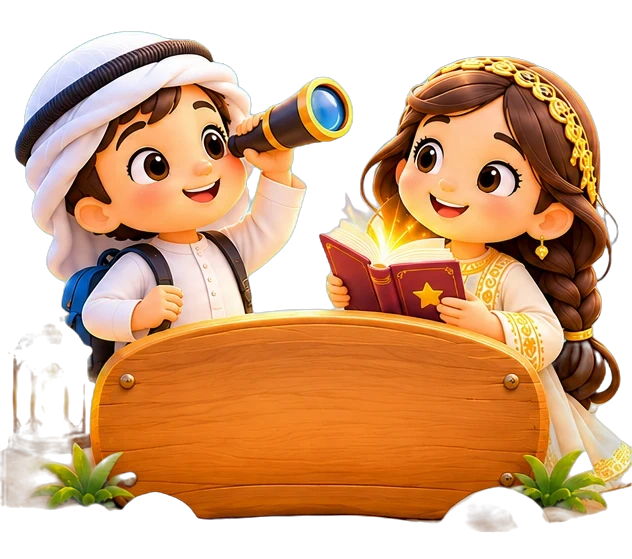
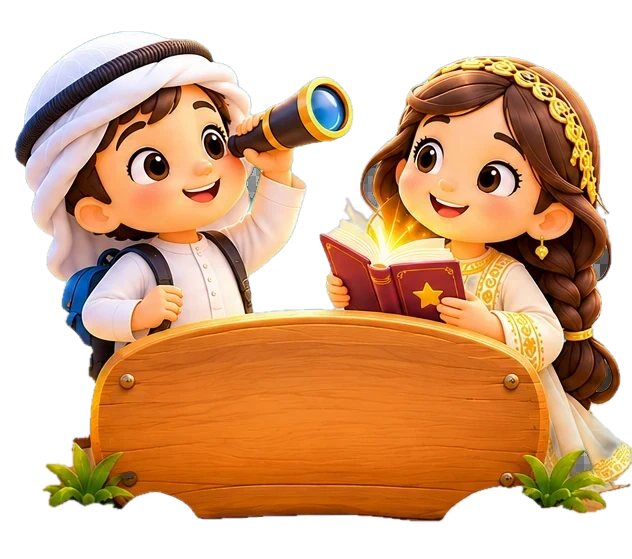
Home in the painted style: Amna's background and six buildings, kids with sign cleaned, backpack for homework, no signs. Not deployed.
Claude-Session: https://claude.ai/code/session_016UQV7K3rGGxSvkGTYBHu2J

diff --git a/world.html b/world.html
@@ -230,6 +230,20 @@ svg.road{position:absolute;inset:0;width:100%;height:100%}
 #allgrid .glesson{animation:popup2 .45s var(--bounce) backwards}
 #allgrid .glesson span{width:17cqh;height:17cqh}#allgrid .glesson b{font-size:3.2cqh}
 @keyframes popup2{from{transform:scale(.4);opacity:0}}
+
+/* home in the painted style: your background, buildings on the sand, no signs */
+#map{background:#f6d9a4}#map::before,#map::after{display:none}
+#map .bg{z-index:0}
+.bld.nb>img{width:100%;height:100%;object-fit:contain;object-position:bottom;filter:drop-shadow(0 1.4cqh 1.2cqh rgba(130,80,20,.28))}
+.bld.nb{animation:idle 4s ease-in-out infinite;animation-delay:var(--d)}
+@keyframes idle{50%{transform:translateY(-.8cqh)}}
+.bld.nb.hit{animation:bhit .6s var(--bounce)}
+.bld.nb i.tk{position:absolute;top:8%;right:10%;width:6cqh;height:6cqh;border-radius:50%;background:#1f9d5c;border:.5cqh solid #fff;display:flex;align-items:center;justify-content:center}
+.bld.nb i.tk svg{width:3.4cqh;height:3.4cqh}
+#heroK{bottom:2cqh;height:44cqh}
+#whw{left:calc(50% + 23cqh);bottom:2cqh;width:24cqh;animation:hwb 2.6s ease-in-out infinite}
+#whw img{width:24cqh;height:auto;margin:0;filter:drop-shadow(0 1cqh 1cqh rgba(130,80,20,.28))}
+#whw #hwn{top:0;inset-inline-end:1cqh}
 </style>
 </head>
 <body>
@@ -368,17 +382,15 @@ async function drawBoard(){const o=$("#board"),L=(await boardData()).sort((a,b)=
   o.innerHTML=`<div class="card" id="bcard"><div id="bhead" class="wood">نجوم العائلة</div><button class="pill ic" id="bx" aria-label="إغلاق"><svg viewBox="0 0 24 24" fill="none" stroke="#1d2547" stroke-width="3" stroke-linecap="round"><path d="M6 6l12 12M18 6L6 18"/></svg></button><div id="podium">${pod}</div>${rest?`<div id="brest">${rest}</div>`:""}</div>`;
   $("#bx").onclick=()=>{o.classList.remove("on");clearInterval(boardT)};o.onclick=e=>{if(e.target===o){o.classList.remove("on");clearInterval(boardT)}}}
 /* home */
-const ORDER=["ar","en","deen","math","uae","name"],SPOT=[[88,13,25],[76.5,45,22],[58.5,58,18],[41.5,58,18],[23.5,45,22],[12,13,25]];
+const ORDER=["ar","en","deen","math","uae","name"],SPOT=[[86,6,27],[77,38,24],[60,52,21],[40,52,21],[23,38,24],[14,6,27]];
 const HOME=["calc(50% - 42.5cqh)","1cqh"];let flying=false;
 const perch=i=>[`calc(${SPOT[i][0]}% - ${(SPOT[i][0]>50?1:-1)*SPOT[i][2]*.72+10.5}cqh)`,SPOT[i][1]-1+"cqh"];
+const BLD={ar:"b_fort",en:"b_library",deen:"b_mosque",math:"b_souq",uae:"b_dhow",name:"b_tent"};
 function drawMap(){const M=$("#map"),me=NAJMA.me;
-  let h=`<svg class="path" viewBox="0 0 100 100" preserveAspectRatio="none" aria-hidden="true"><path d="M12,90 A38,46 0 0 1 88,90" fill="none" vector-effect="non-scaling-stroke" stroke="#e2ad66" style="stroke-width:11cqh" stroke-linecap="round"/><path d="M12,90 A38,46 0 0 1 88,90" fill="none" vector-effect="non-scaling-stroke" stroke="#fbe3b6" style="stroke-width:8.6cqh" stroke-linecap="round"/></svg>`;
-  [[18,5,22,0],[36,14,15,-3],[60,4,20,-5],[78,15,14,-2]].forEach(([x,t,w,dl])=>h+=`<img class="cloud" src="${V}s_cloud.webp" alt="" style="--x:${x}%;--t:${t}%;--s:${w}cqh;--d:${dl}s">`);
-  const dec=(n,x,b,w,sw,dl=0)=>h+=`<img class="decor${sw?" sway":""}" src="${V}${n}.webp" alt="" style="--x:${x}%;--b:${b}cqh;--s:${w}cqh;--d:${dl}s">`;
-  dec("s_palm",50,56,15,1);dec("s_palm",3,50,17,1,-2);dec("s_ghaf",97,50,17,1,-1);dec("s_palm",33,52,12,1,-3);dec("s_ghaf",67,52,12,1,-2);dec("s_flowers",31,3,8);dec("s_rocks",70,30,9);
-  h+=`<div id="heroK"><b>هيا نتعلم!</b></div><button id="whw"><img src="${V}l_task.webp" alt=""><span class="wood">واجب اليوم</span>${hwN?`<i id="hwn">${AD(hwN)}</i>`:""}</button>`;
-  ORDER.forEach((k,i)=>{const [x,b,ht]=SPOT[i],s=PLACE[k],n=Math.round(frac(k)*4),on=vis(k).length;if(!on)return;
-    h+=`<button class="bld" data-k="${k}" style="left:${x}%;bottom:${b}cqh;height:${ht}cqh;width:${ht*1.45}cqh;margin-left:${-ht*.725}cqh" aria-label="${s.name}">${pic(s.p)}</button><button class="post wood" data-k="${k}" style="left:${x}%;bottom:${b-7.6}cqh">${s.name}<i>${[0,1,2,3].map(j=>`<img src="${V}r_star.webp" alt=""${j<n?"":' class="off"'}>`).join("")}</i></button>`});
+  let h=`<img class="bg" src="${V}home_bg.webp" alt="" style="object-position:center top">`;
+  h+=`<div id="heroK"><b>هيا نتعلم!</b></div><button id="whw" aria-label="واجب اليوم"><img src="${V}h_bag.webp" alt="">${hwN?`<i id="hwn">${AD(hwN)}</i>`:""}</button>`;
+  ORDER.forEach((k,i)=>{const [x,b,ht]=SPOT[i],s=PLACE[k],dn=frac(k)>=1;if(!vis(k).length)return;
+    h+=`<button class="bld nb" data-k="${k}" style="left:${x}%;bottom:${b}cqh;height:${ht}cqh;width:${ht*1.3}cqh;margin-left:${-ht*.65}cqh;--d:${(i*.35).toFixed(2)}s" aria-label="${s.name}">${pic(BLD[k])}${dn?`<i class="tk">${TK}</i>`:""}</button>`});
   h+=`<div class="falcon" id="wf" data-f="wave"><img alt=""></div><span class="pill" id="wstars"><img src="${V}r_star.webp" alt=""><span>${stars}</span></span><button class="pill ic" id="wcup" aria-label="نجوم العائلة"><img src="${V}r_trophy.webp" alt=""></button><button class="pill" id="wall" aria-label="كل الألعاب"><svg viewBox="0 0 24 24" width="30" height="30"><g fill="#f5b700" stroke="#c98a00" stroke-width="1.2"><rect x="3" y="3" width="7.5" height="7.5" rx="2.2"/><rect x="13.5" y="3" width="7.5" height="7.5" rx="2.2"/><rect x="3" y="13.5" width="7.5" height="7.5" rx="2.2"/><rect x="13.5" y="13.5" width="7.5" height="7.5" rx="2.2"/></g></svg>كل الألعاب</button>
     <button class="pill" id="wkid"><span class="av" style="background:${me&&me.color||"#ffd23f"}">${NAJMA_AV(me&&me.avatar)}</span><span dir="auto">${me&&!me.preview?(me.nameAr||me.name):""}</span></button>`;
   M.innerHTML=h;const wf=$("#wf");wf.style.left=HOME[0];wf.style.bottom=HOME[1];falcon(wf,"wave");flying=false;
